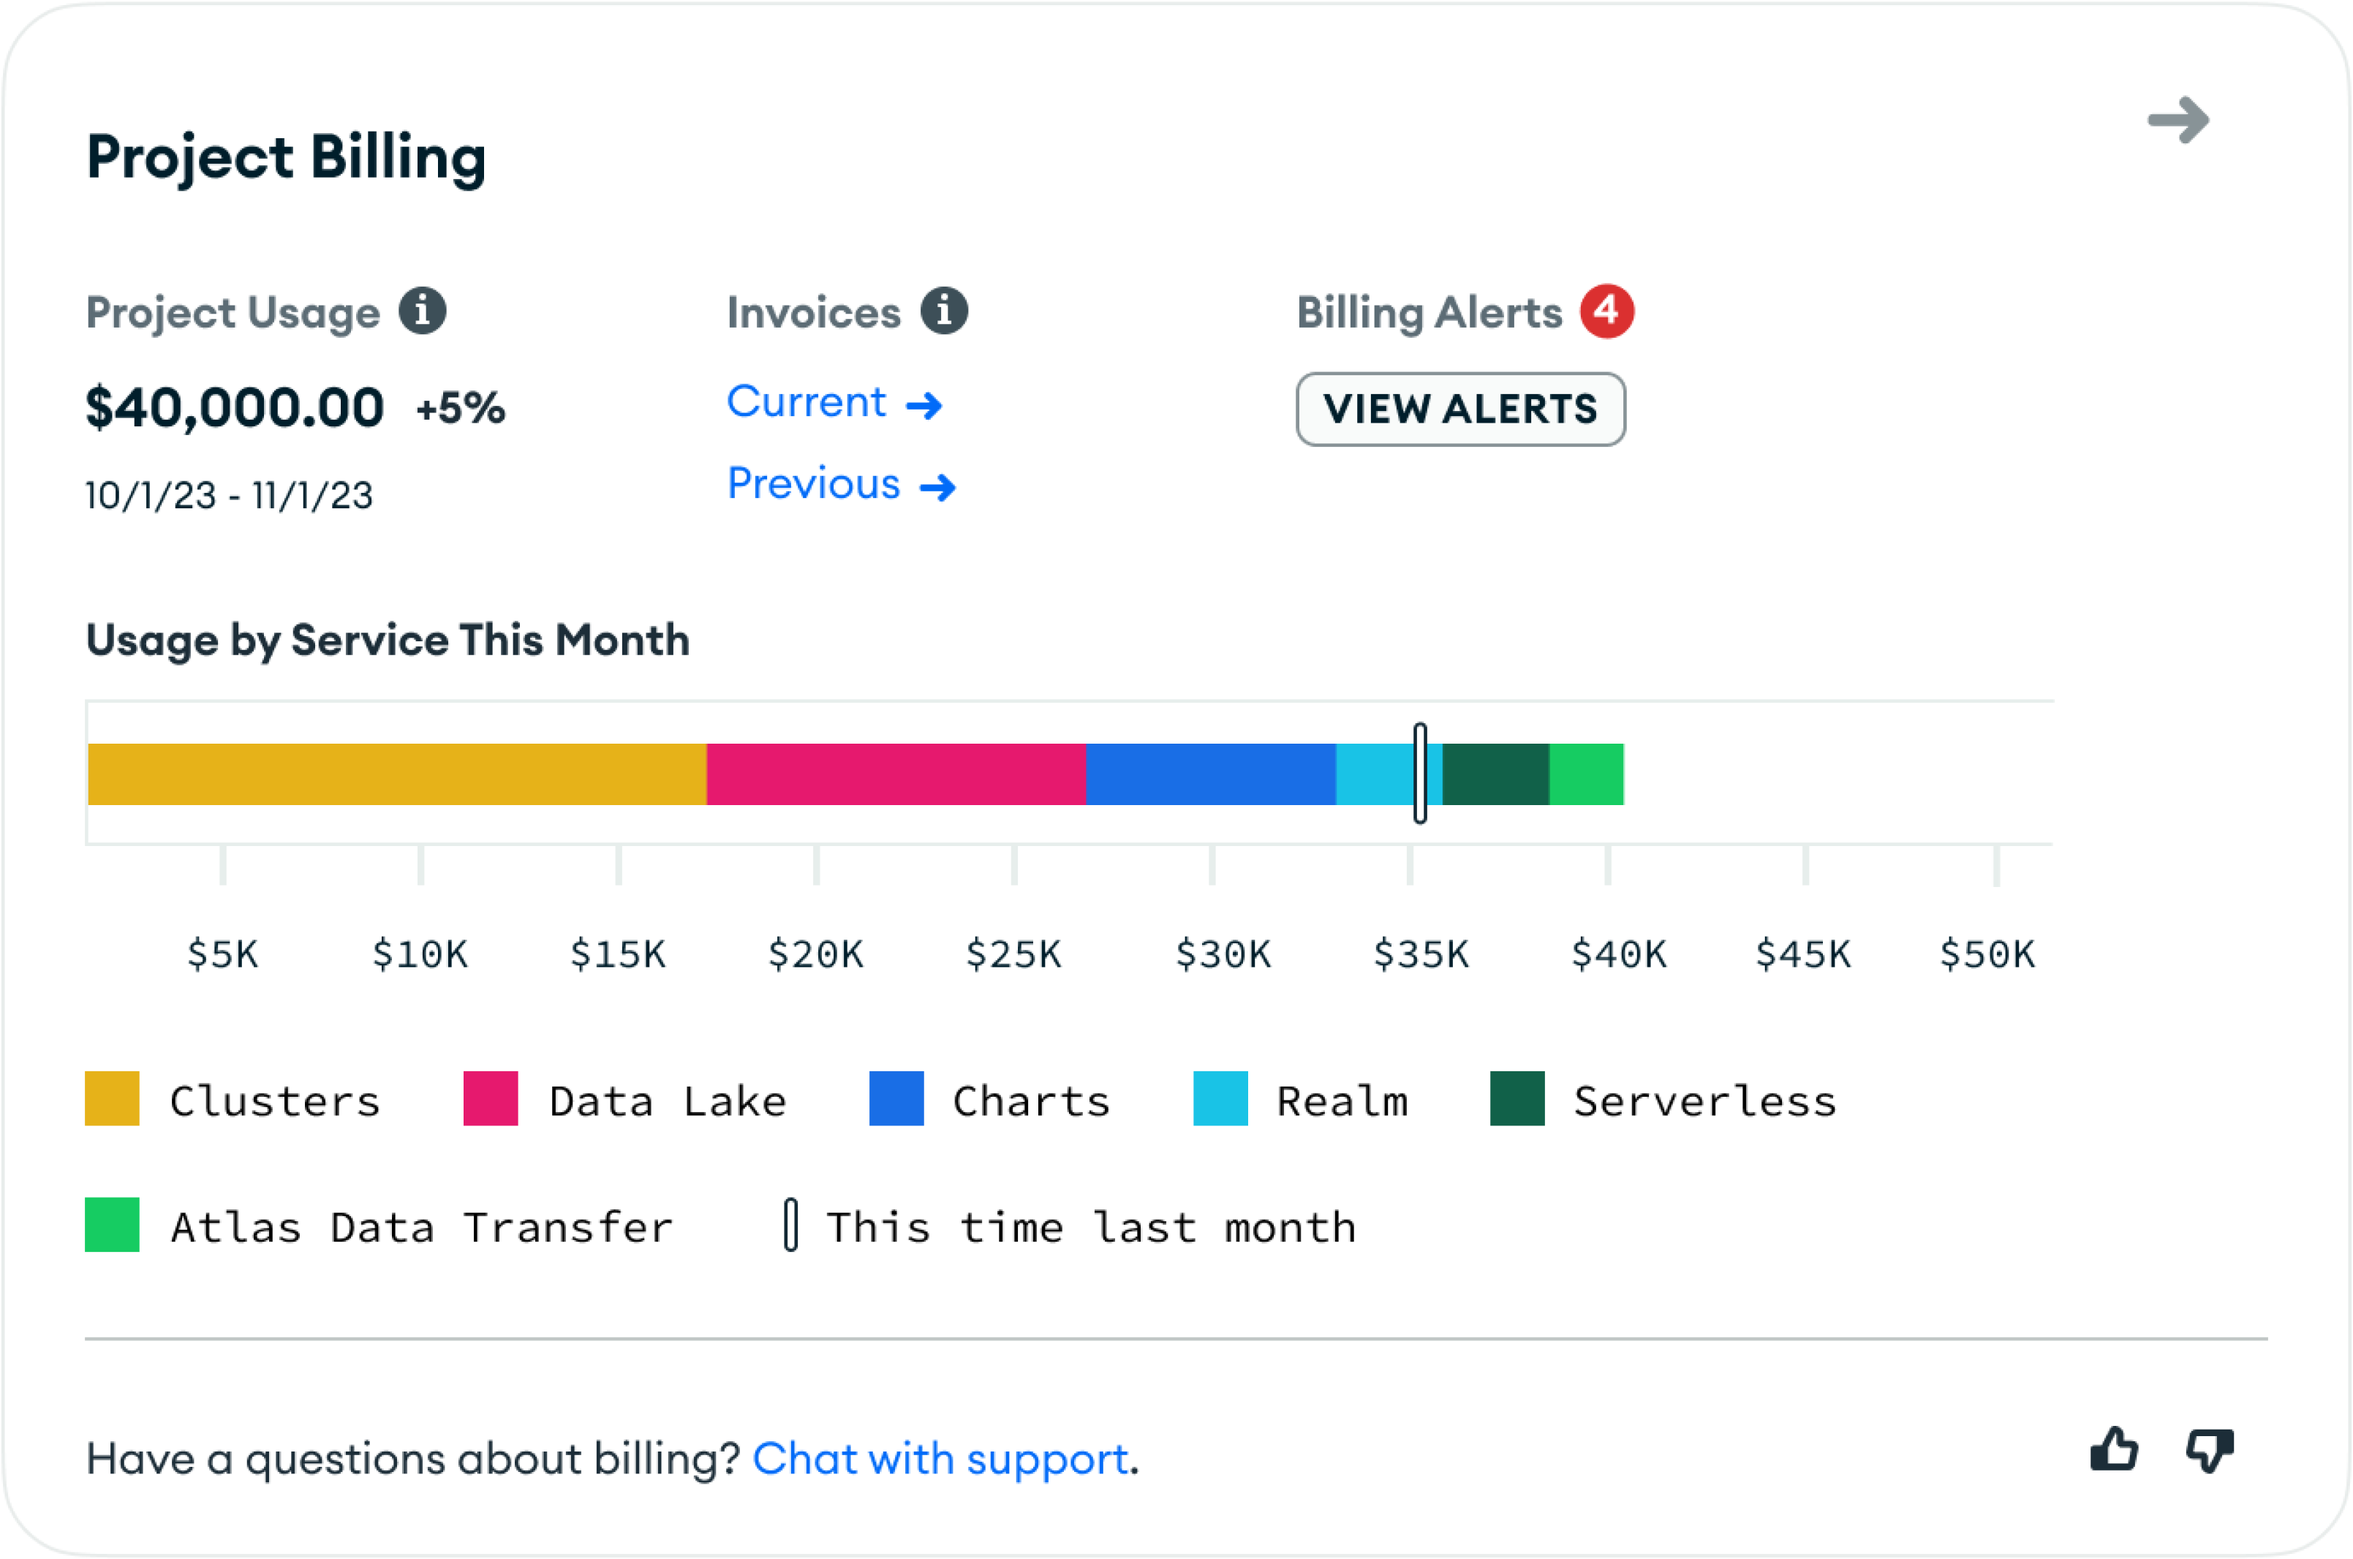
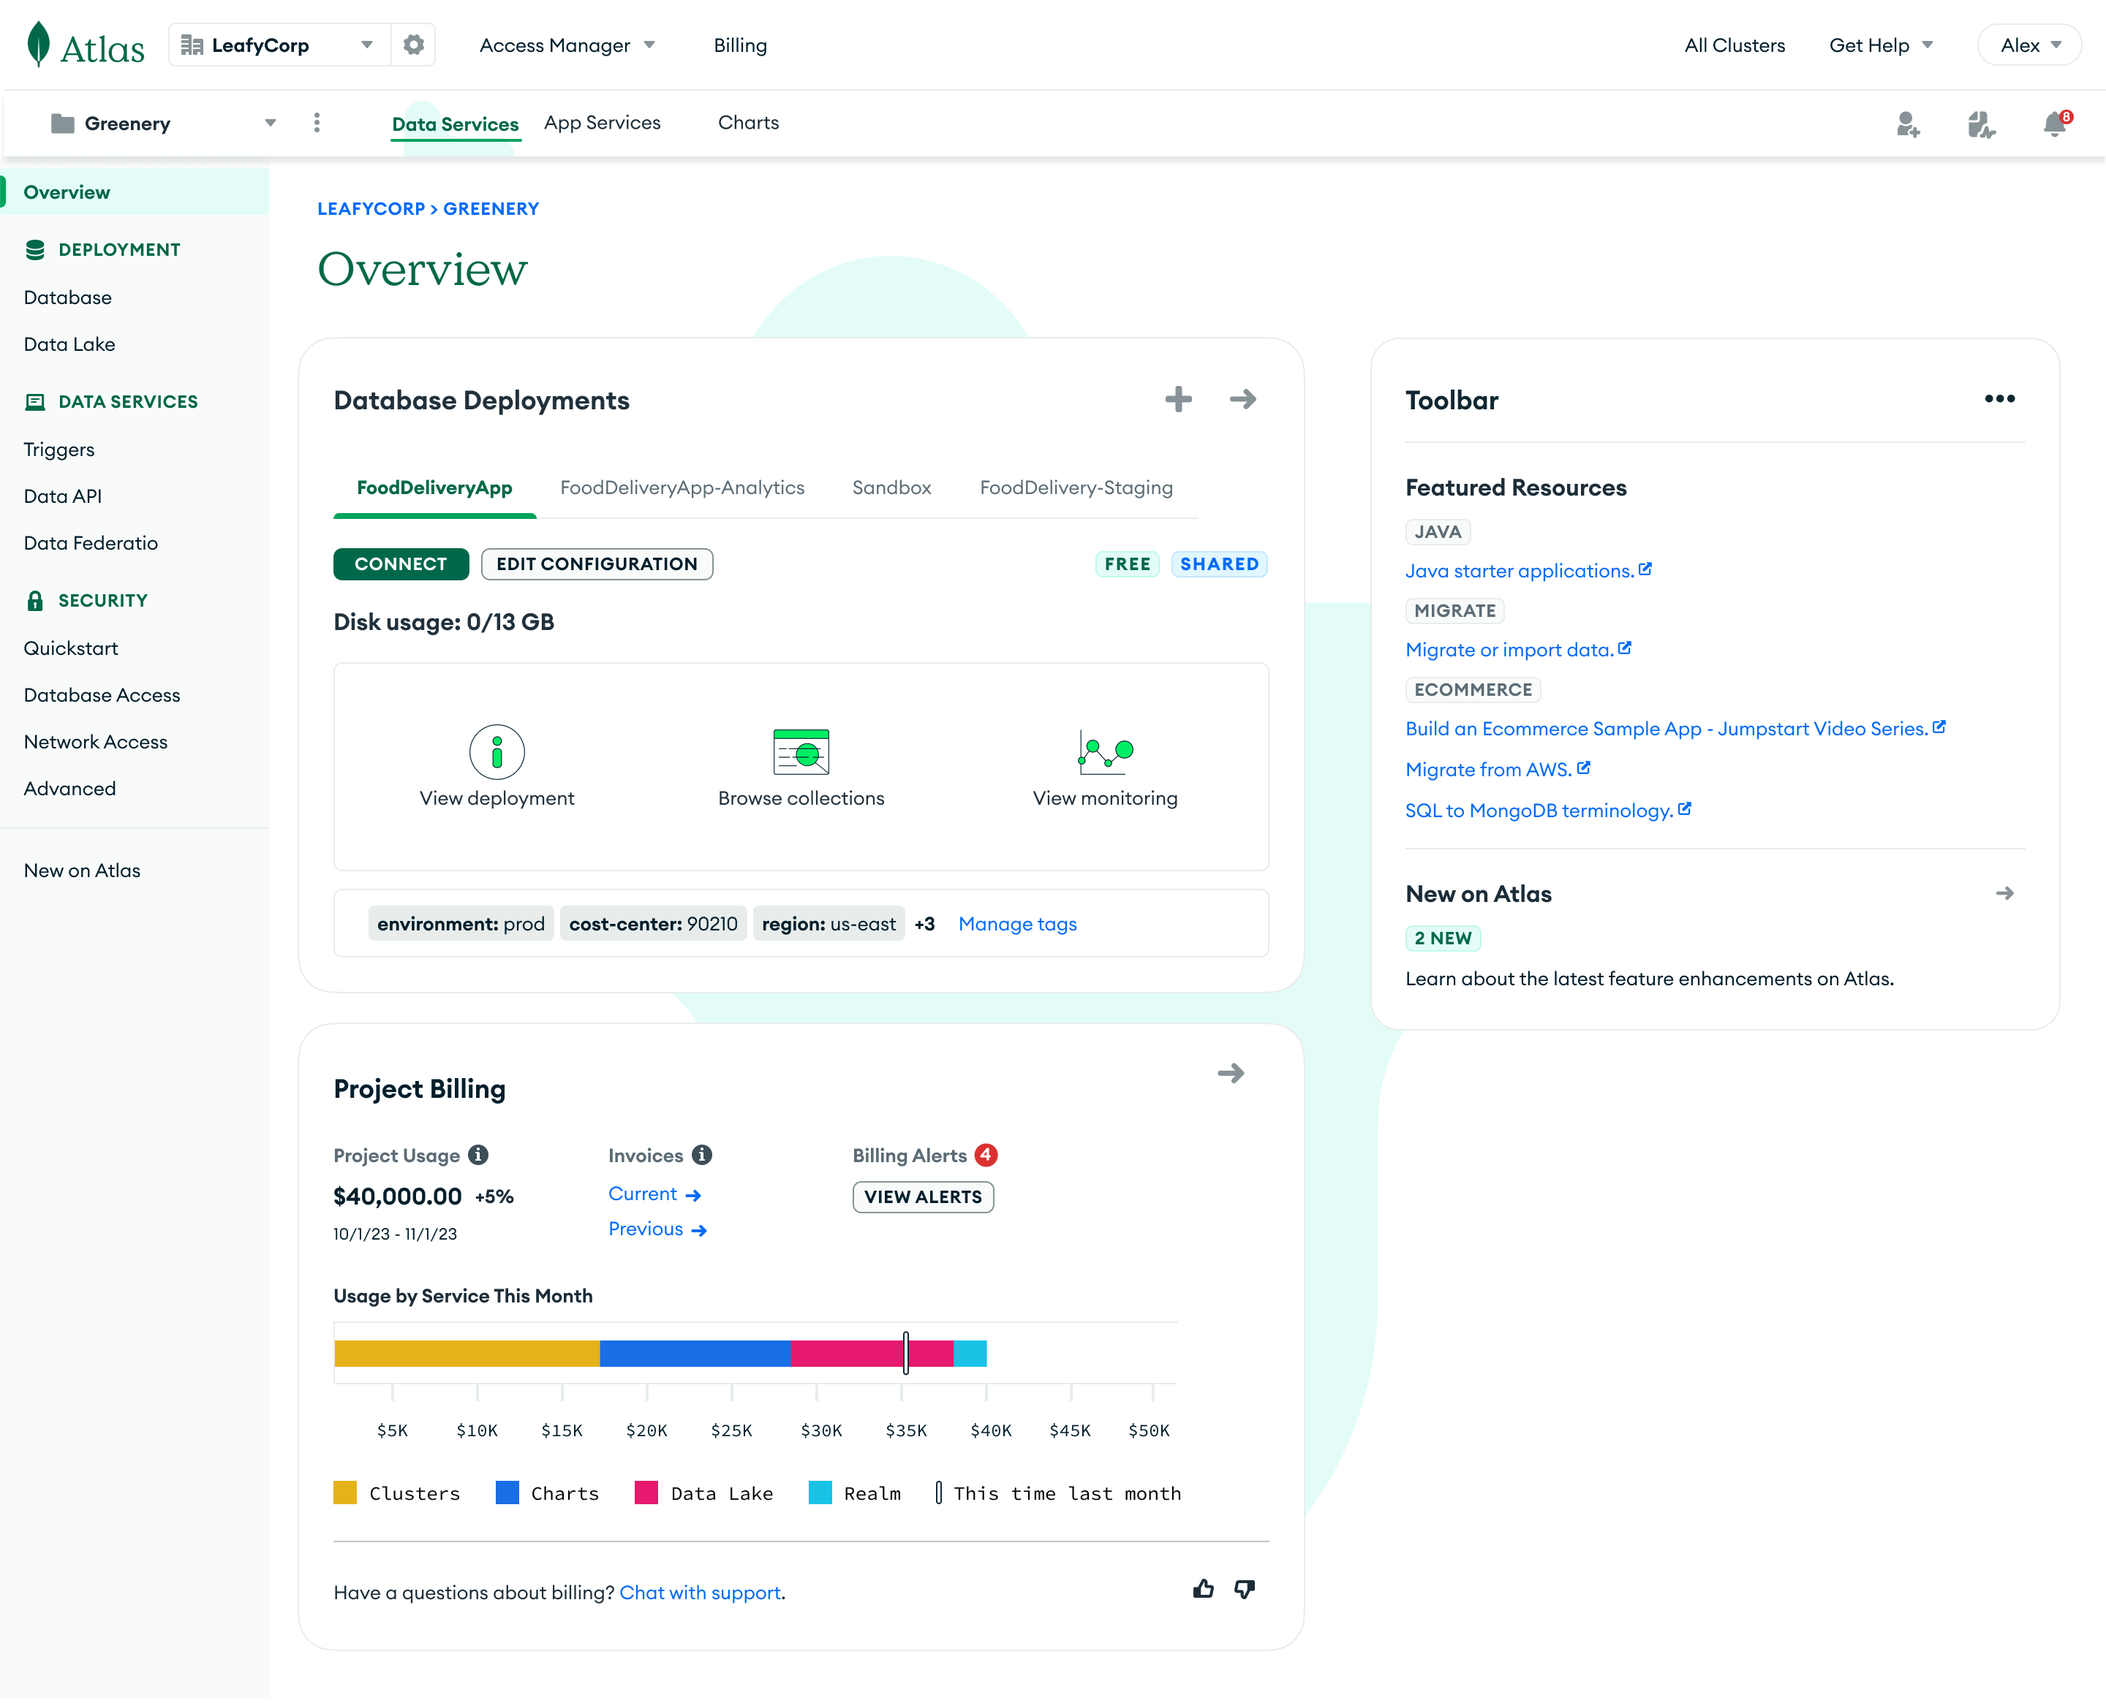
billing image update

diff --git a/profiler.html b/profiler.html
@@ -181,6 +181,12 @@
               class="img-responsive mongo-modal-trigger"
               alt="Profiler after redesign"
             />
+            <p style="margin-top: 32px">Example of different types of guidance</p>
+            <img
+              src="images/mongo/profiler variants.png"
+              class="img-responsive mongo-modal-trigger"
+              alt="Profiler variants"
+            />
           </div>
 
           <h3>Outcome</h3>
@@ -198,6 +204,16 @@
             with these features continues to correlate with improvements in key
             performance metrics.
           </p>
+          <div class="under_images">
+            <p class="image-label">
+              AI-Based Analysis - Experiment in Progress
+            </p>
+            <img
+              src="images/mongo/ai.png"
+              class="img-responsive mongo-modal-trigger"
+              alt="Profiler AI guidance"
+            />
+          </div>
         </div>
       </div>
     </div>
